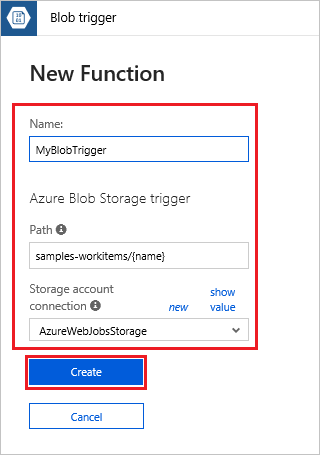
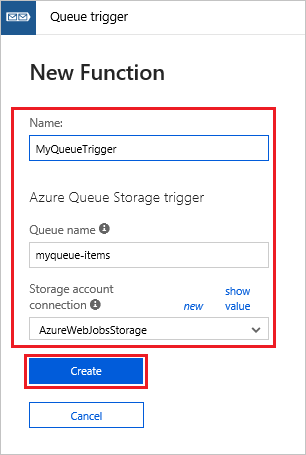
Updated

diff --git a/azure-functions/azure-functions-trigger-queue/steps/3/text.md b/azure-functions/azure-functions-trigger-queue/steps/3/text.md
@@ -6,21 +6,20 @@
 
     ![](https://github.com/fenago/katacoda-scenarios/raw/master/azure-functions/azure-functions-trigger-queue/steps/3/2.png)
 
-3. In the search field, type blob and then choose the Queue trigger template.
+3. In the search field, type queue and then choose the **Queue trigger template**.
 
-4.  prompted, select Install to install the Azure Storage extension any dependencies in the function app. After installation succeeds, select Continue.
+4.  prompted, select **Install** to install the Azure Storage extension any dependencies in the function app. After installation succeeds, select **Continue**.
 
     ![](https://github.com/fenago/katacoda-scenarios/raw/master/azure-functions/azure-functions-trigger-queue/steps/3/4.png)
 
 5. Use the settings as specified in the table below the image.
 
-    ![](https://github.com/fenago/katacoda-scenarios/raw/master/azure-functions/azure-functions-trigger-queue/steps/3/5.png)
-
+    ![](https://github.com/fenago/katacoda-scenarios/raw/master/azure-functions/azure-functions-trigger-queue/steps/3/5.png)		
 
 Setting | Suggested value | Description
 --- | --- | ---
-`Name` |	`Unique in your function app` |	Name of this blob triggered function.
-`Path` |	`samples-workitems/{name}` |	Location in Blob storage being monitored. The file name of the blob is passed in the binding as the name parameter.
+`Name` |	`Unique in your function app` |	Name of this queue triggered function..
+`Queue name` |	`myqueue-items` |	Name of the queue to connect to in your Storage account.
 `Storage account connection` |	`AzureWebJobsStorage` |	You can use the storage account connection already being used by your function app, or create a new one.
 
 6. Click **Create** to create your function.

diff --git a/azure-functions/azure-functions-trigger-queue/steps/1/text.md b/azure-functions/azure-functions-trigger-queue/steps/1/text.md
@@ -1,5 +1,4 @@
-In this scenario, you will learn how to create a function triggered when files are uploaded to or updated in Azure Blob storage.
-
+In this scenario, you will learn how to create a function that is triggered when messages are submitted to an Azure Storage queue.
 
 #### Prerequisites
 - Download and install the [Microsoft Azure Storage Explorer](https://storageexplorer.com/).

diff --git a/azure-functions/azure-functions-trigger-queue/steps/4/text.md b/azure-functions/azure-functions-trigger-queue/steps/4/text.md
@@ -14,4 +14,4 @@
 
     ![](https://github.com/fenago/katacoda-scenarios/raw/master/azure-functions/azure-functions-trigger-queue/steps/4/4.png)
 
-Now that you have a blob container, you can test the function by uploading a file to the container.
+Now that you have a storage queue, you can test the function by adding a message to the queue.
